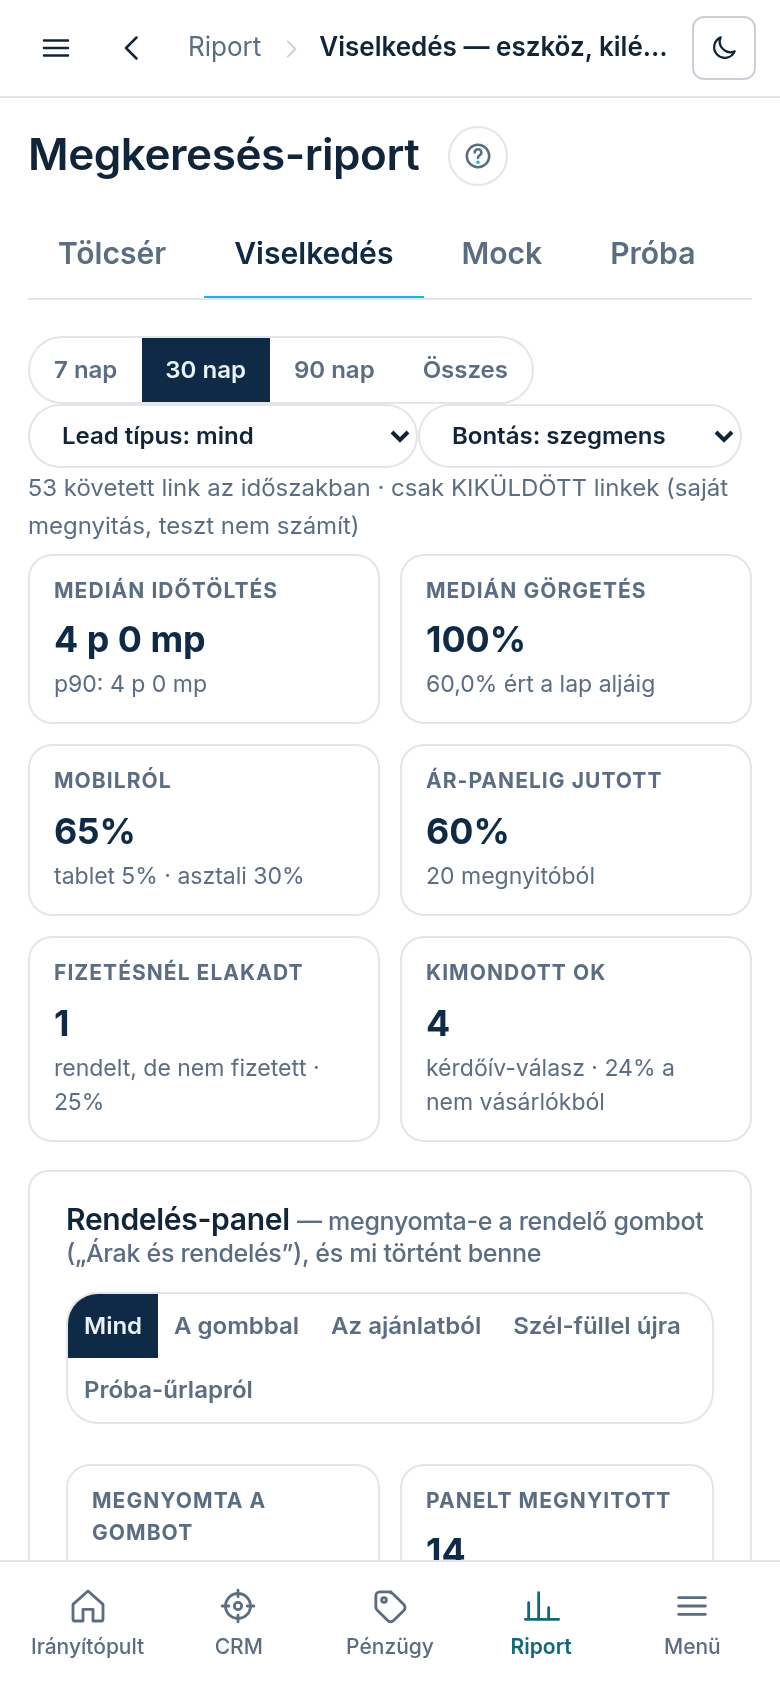
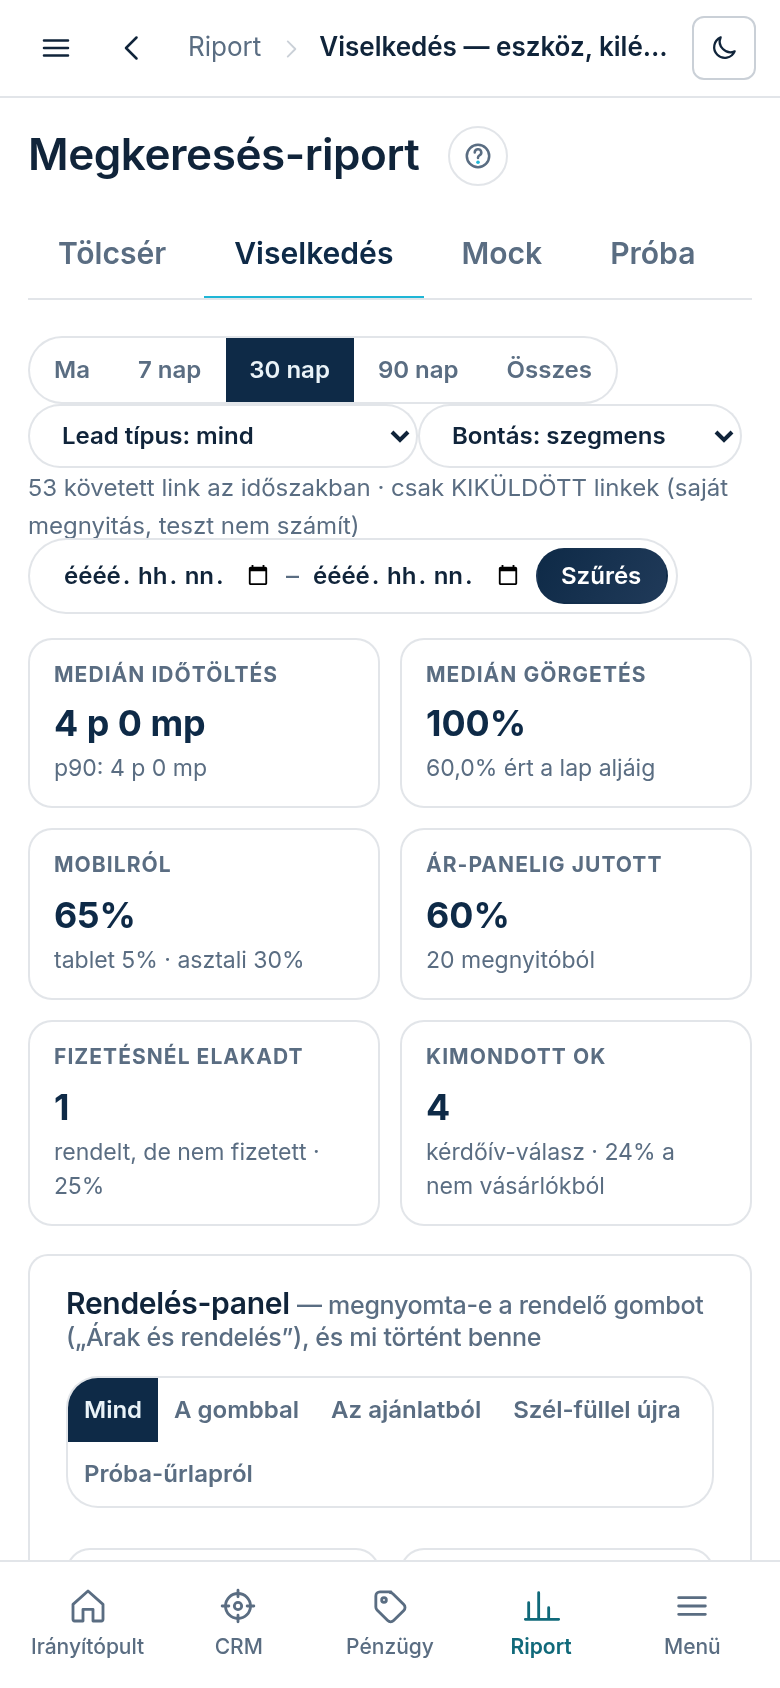
docs(kb): Riport súgó — Ma/egyedi időszak + Visszatérés 1/2/3/4+ névsorral, képek frissítve
Claude-Session: https://claude.ai/code/session_0148jUpqWWt5YUY4XnGXuQ9T

diff --git a/kb/entries/console-report/entry.hu.md b/kb/entries/console-report/entry.hu.md
@@ -24,7 +24,8 @@ A bal menüben **„Riport”** → **„Megkeresés-tölcsér”**, **„Viselk
 
 ## A szűrősor — minden szám erre számolódik
 
-Egy sorban: az **időszak** chipjei (7 · 30 · 90 nap vagy **„Összes”**), a **„Lead típus”**
+Egy sorban: az **időszak** chipjei (**„Ma”** · 7 · 30 · 90 nap vagy **„Összes”**; a lap a
+**„Ma”**-val nyílik), a **„Lead típus”**
 legördülő (**„mind”** · nincs honlap · 0 lábnyom · van lábnyom · elavult honlap · ismeretlen) és a
 **bontás** legördülő (szegmens · csatorna · eszköz · mock-stílus · küldési óra). A „Lead típus”
 csak az adott típusú leadeket hagyja meg: így egyetlen csoport tölcsérét látod önmagában, míg a
@@ -32,7 +33,13 @@ szegmens szerinti bontás egymás mellé teszi a típusokat. Ha nem „mind” v
 kiemelt, és a választás a Viselkedés lapon is érvényes marad. Minden panel a kiválasztott
 időszakban KIKÜLDÖTT linkeket nézi — a saját megnyitásod és a teszt nem számít bele, a sor jobb
 széle ezt ki is írja. A változás-számok („+3,7 pont”) az előző, ugyanakkora időszakhoz mérnek;
-az **„Összes”** mellett ilyen összevetés nincs, ott egy kötőjel áll.
+az **„Összes”** mellett ilyen összevetés nincs, ott egy kötőjel áll; a **„Ma”** a tegnapihoz mér.
+
+**Egyedi időszak:** a chipek alatti két dátummezőben add meg a kezdő és az utolsó napot, majd
+nyomd meg a **„Szűrés”** gombot. Mindkét nap beleszámít, a mai napnál későbbi nem választható.
+Ilyenkor a dátum-doboz kiemelt, mellette ez áll: „Kiküldve 9. 20. – 9. 27. között”. A választás
+a lead-típus és a bontás váltásakor, és a Viselkedés lapon is megmarad; egy chipre kattintva
+visszatérsz a gyors időszakokhoz. Itt is a link KIKÜLDÉSI napja számít.
 
 ## Tölcsér — hét kérdés, hét kártya
 
@@ -65,8 +72,11 @@ leadet mutatja.
 
 ## Visszatérés, bontás, kohorsz, napló
 
-- **„Visszatérés”**: hányan jöttek 1 / 2 / 3+ alkalommal, és közülük hányan rendeltek
-  („rendel: 29%”). Alatta egy mondat az eszkalációs ajánlatról: hánynak jelent meg, hány
+- **„Visszatérés”**: hányan jöttek 1 / 2 / 3 / 4+ alkalommal, és közülük hányan rendeltek
+  („rendel: 29%”). Egy sávra kattintva lenyílik a leadek névsora (a legutóbb visszatérő elöl,
+  a látogatások számával és az utolsó látogatás idejével, a rendelőknél **„rendelt”** jellel);
+  a névre kattintva a lead riportja nyílik (mit csinált a mockon), a **„lead-lap”** link a lead
+  adatlapjára visz. Alatta egy mondat az eszkalációs ajánlatról: hánynak jelent meg, hány
   kattintott, hány rendelt, hány vetette el.
 - **„Bontás”**: a kiválasztott dimenzió szerint (pl. szegmensenként) a tölcsér hat oszlopa:
   **„Kiküldve”** · **„Megnyitva”** · **„Elmélyült”** · **„Próba”** · **„Rendelés”** · **„Fizetve”**; az
